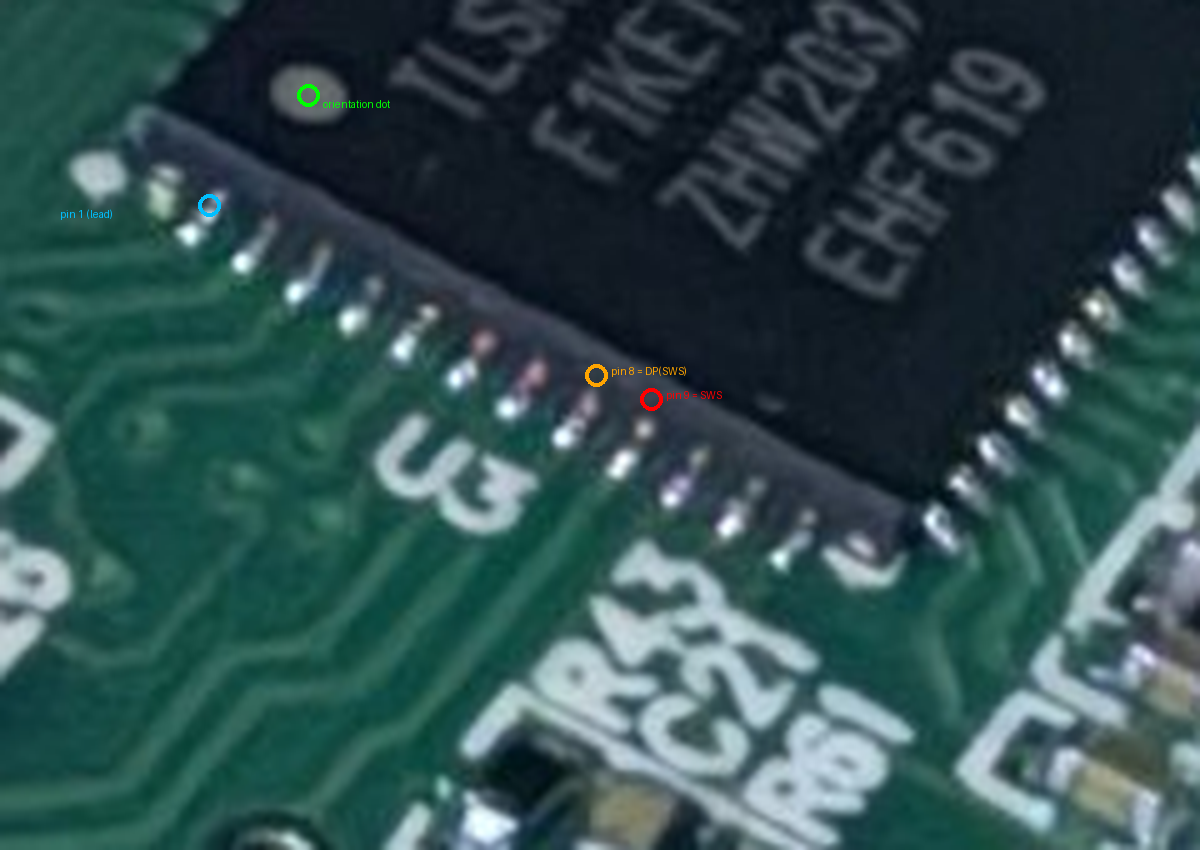
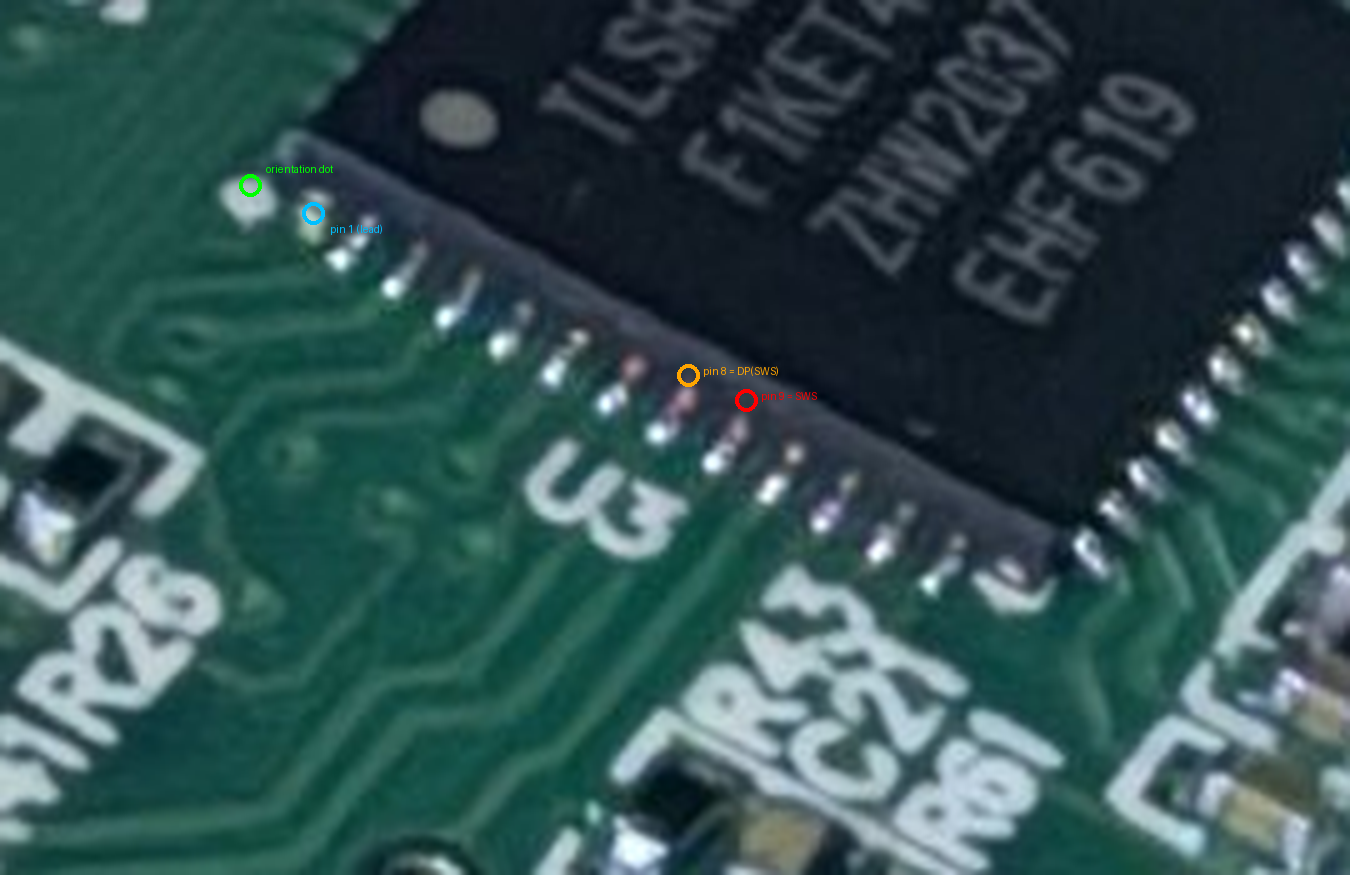
Shift pin-1 anchor one lead earlier, propagate to SWS/DP(SWS) candidates
Per direct correction: the actual pin 1 lead is one position closer to the
corner-adjacent dot than previously marked, and that dot itself is a
separate board-silkscreened marker (not the chip package's own molded dot,
which sits further up on the black package body). Since pin numbers count
from pin 1, this shifts every downstream pin by one lead -- pin 8 (DP-SWS)
and pin 9 (SWS) both move up one lead to match. Independent pixel-counting
passes at this resolution disagreed with each other before converging here,
which is reflected in hardware-setup.md's caveat: still needs a continuity
test, not a visual read, before trusting it on a powered board.

diff --git a/docs/hardware-setup.md b/docs/hardware-setup.md
@@ -137,20 +137,23 @@ This is the one that matters most before any real firmware experiment on the mai
    the datasheet lists **pin 9 (`SWS`/`UART_RTS`/`PA<7>`)** as the primary SWire pin, with
    **pin 8 (`DP(SWS)`/`PA<6>`)** as an alternate — Telink parts can be configured to use either.
 
-   Correlating this against the real board photo (pin 1 is marked by the small dot visible on the
-   chip package, standard QFN convention — see
-   [`tlsr8258-sws-candidate.png`](../assets/chips/tlsr8258-sws-candidate.png)): counting pins
-   along the one edge clearly resolved in the photo places pins 8 and 9 two pins before the
-   package corner nearest the silkscreened `R43`/`C27`/`R61` footprints, which is consistent with
-   a series-resistor-protected debug line (a common pattern in reference designs, to protect the
+   Correlating this against the real board photo — see
+   [`tlsr8258-sws-candidate.png`](../assets/chips/tlsr8258-sws-candidate.png): the chip package
+   has its own small molded dot near pin 1 (standard QFN orientation marking, visible top-left of
+   the package), and there's a *separate* dot silkscreened onto the board itself, one pin-pitch
+   before the actual first lead, pointing at it. Counting pins from that first lead along the one
+   edge clearly resolved in the photo places pins 8 and 9 two pins before the package corner
+   nearest the silkscreened `R43`/`C27`/`R61` footprints, which is consistent with a
+   series-resistor-protected debug line (a common pattern in reference designs, to protect the
    chip if the debug line is probed while the board is powered). **This is a photo-correlated
-   estimate, not a confirmed pinout** — the photo's resolution isn't sharp enough to count
-   individual 0.5mm-pitch leads with certainty, and this project's own standard throughout has been to verify against the real
-   consumer, not a visual guess. **Confirm with a continuity tester (multimeter beep mode)
-   against a known-ground pin before wiring anything to pin 8 or 9** — this is the same caution
-   the Nuvoton SWD section above already asks for, and it matters more here, since miswiring a
-   debug line into the wrong GPIO on a powered board is the actual risk this whole guide exists to
-   avoid.
+   estimate, not a confirmed pinout** — at this resolution, independent pixel-level attempts to
+   count the individual 0.5mm-pitch leads have disagreed with each other by up to a pin or two
+   before converging on the count above, which is exactly why this project's standard throughout
+   has been to verify against the real consumer rather than trust a visual read. **Confirm with a
+   continuity tester (multimeter beep mode) against a known-ground pin before wiring anything to
+   pin 8 or 9** — this is the same caution the Nuvoton SWD section above already asks for, and it
+   matters more here, since miswiring a debug line into the wrong GPIO on a powered board is the
+   actual risk this whole guide exists to avoid.
 4. **Test the connection on a low-stakes target first if at all possible** before trusting it on
    the real device — if you have any other TLSR82xx-family board (even a cheap dev board bought
    specifically for practice), confirm the tool can read that chip's info before relying on the
